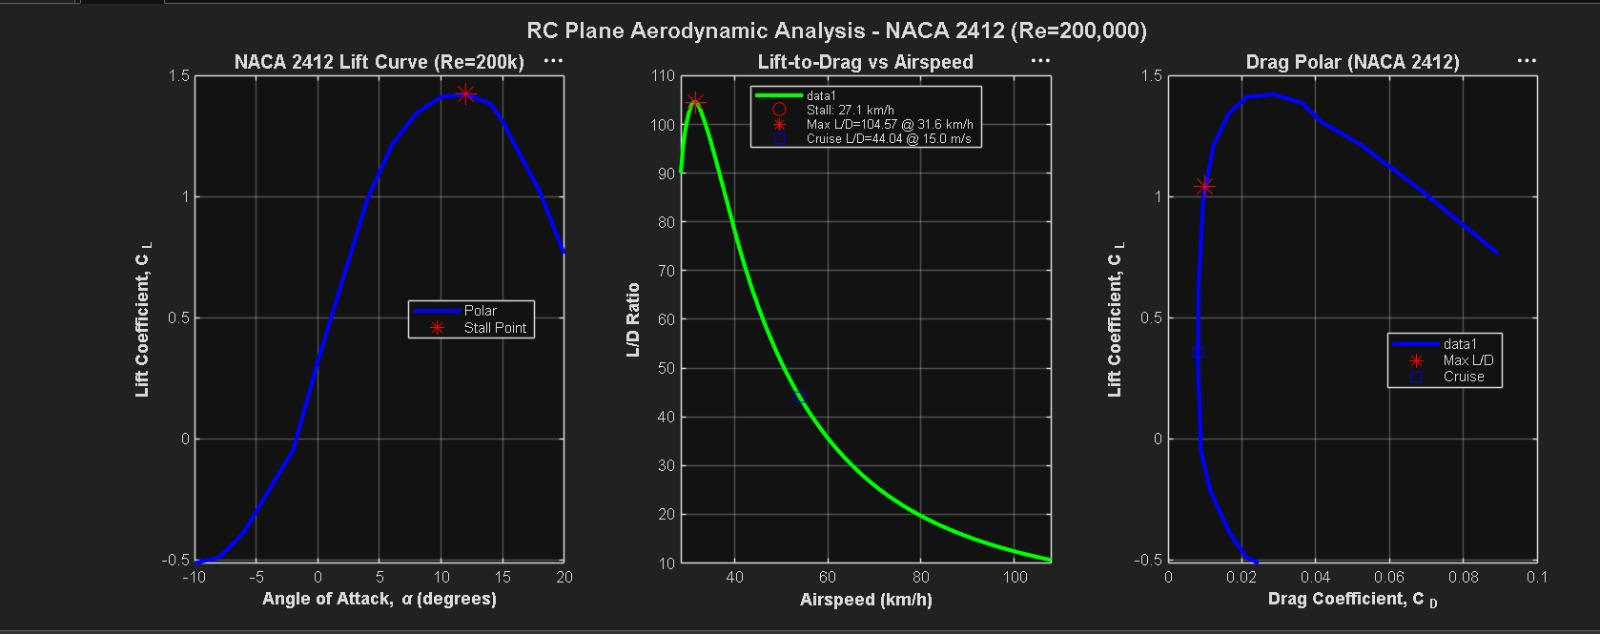
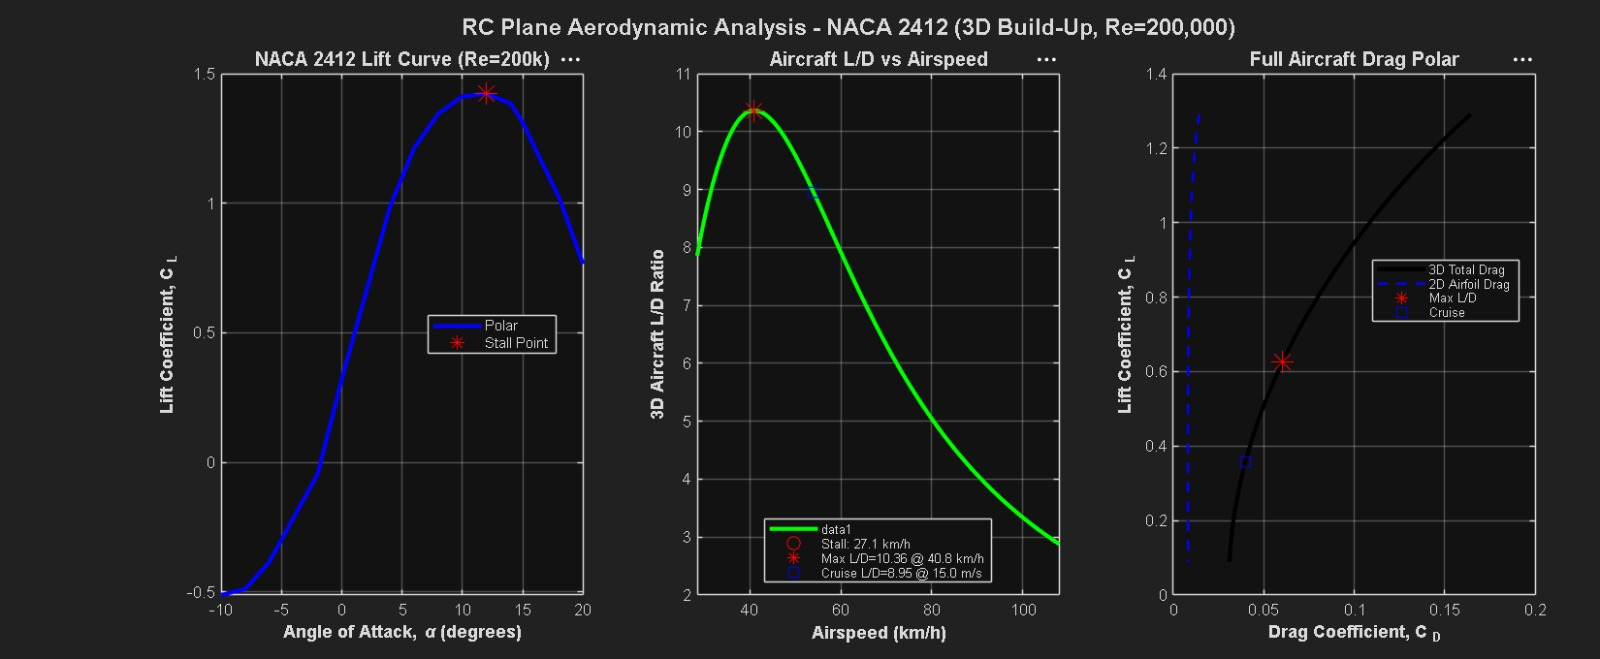
Fix aircraft L/D: add induced + parasite drag build-up

Changed region(s): [[0.0, 0.0, 1.0, 1.0]]

diff --git a/MATLAB_Analysis/performance_analysis.m b/MATLAB_Analysis/performance_analysis.m
@@ -1,12 +1,13 @@
 % RC Plane Performance Analysis with Real Airfoil Polars
-% NACA 2412 (Re=200,000) | 3G Maneuver Load | CL vs Alpha + Performance
+% NACA 2412 (Re=200,000) | 3G Maneuver Load | 3D Aircraft Drag Build-Up
 % Robust version:
+% - Computes 3D total drag (Airfoil Cd + Induced Drag + Parasite Drag)
 % - Handles non-unique CL values for inverse interpolation
 % - Uses only pre-stall branch for CL -> alpha mapping
 % - Masks infeasible points where CL_needed > CL_max
-
-
-
+ 
+clear; clc; close all;
+ 
 %% Aircraft Specs
 W = 990 * 9.81 / 1000;          % Weight in N (990 g)
 S = 0.197;                      % Wing area in m^2
@@ -15,9 +16,13 @@ AR = 5.18;                      % Aspect ratio
 rho = 1.225;                    % Air density at sea level (kg/m^3)
 g = 9.81;                       % Gravity (m/s^2)
 wing_loading = 49.31;           % N/m^2
-
+ 
+% --- 3D Aerodynamic Drag Build-Up Parameters ---
+e_oswald = 0.80;                % Oswald efficiency factor (typical for rectangular wing)
+CD0_parasite = 0.022;           % Estimated parasite drag (fuselage + tail + interference)
+ 
 %% NACA 2412 Airfoil Polars (Re = 200,000) - Embedded Data
-% Format: [alpha(deg), CL, CD]
+% Format: [alpha(deg), CL, CD_airfoil]
 polar_data = [
     -10.00  -0.5123  0.02456
     -8.00   -0.4891  0.02123
@@ -37,102 +42,114 @@ polar_data = [
     18.00    1.0234  0.06876
     20.00    0.7654  0.08934
 ];
-
-alpha = polar_data(:,1);        % Angle of attack (deg)
-CL    = polar_data(:,2);        % Lift coefficient
-CD    = polar_data(:,3);        % Drag coefficient
-
+ 
+alpha      = polar_data(:,1);    % Angle of attack (deg)
+CL         = polar_data(:,2);    % Lift coefficient
+CD_airfoil = polar_data(:,3);    % 2D Airfoil drag coefficient
+ 
 % Find stall point (max CL)
 [CL_max, idx_stall] = max(CL);
 alpha_stall = alpha(idx_stall);
-
+ 
 fprintf('\n=== AIRFOIL CHARACTERISTICS (Re=200,000) ===\n');
 fprintf('Max CL: %.4f at alpha = %.2f deg\n', CL_max, alpha_stall);
-
+ 
 %% Stall Speed Calculation (1G and 3G)
 V_stall_1G = sqrt((2 * W) / (rho * S * CL_max));
 V_stall_3G = V_stall_1G * sqrt(3);
-
+ 
 fprintf('\n=== STALL SPEED ===\n');
 fprintf('Vstall (1G): %.2f m/s (%.2f km/h)\n', V_stall_1G, V_stall_1G * 3.6);
 fprintf('Vstall (3G maneuver): %.2f m/s (%.2f km/h)\n\n', V_stall_3G, V_stall_3G * 3.6);
-
+ 
 %% Build monotonic pre-stall branch for inverse interpolation (CL -> alpha)
 alpha_pre = alpha(1:idx_stall);
 CL_pre    = CL(1:idx_stall);
-
+ 
 % Ensure unique CL sample points (required by interp1)
 [CL_pre_u, iu] = unique(CL_pre, 'stable');
 alpha_pre_u    = alpha_pre(iu);
-
+ 
 %% Speed Range for Analysis
-V_min    = 1.05 * V_stall_1G;   % start above stall for physical consistency
+V_min    = 1.05 * V_stall_1G;   % Start above stall for physical consistency
 V_max    = 30;
 V_cruise = 15;
 V_array  = linspace(V_min, V_max, 200);
-
+ 
 %% Compute CL needed for level flight at each speed
 CL_needed = (2 * W) ./ (rho * S * V_array.^2);
-
+ 
 % Valid only if required CL is within available pre-stall CL range
 CL_min_pre = min(CL_pre_u);
 valid = (CL_needed >= CL_min_pre) & (CL_needed <= CL_max);
-
+ 
 alpha_needed = nan(size(CL_needed));
-CD_interp    = nan(size(CL_needed));
-
+CD_2D_interp = nan(size(CL_needed));
+ 
 % Inverse interpolation: CL -> alpha (pre-stall branch only)
 alpha_needed(valid) = interp1(CL_pre_u, alpha_pre_u, CL_needed(valid), 'pchip');
-
-% Forward interpolation: alpha -> CD
-CD_interp(valid) = interp1(alpha, CD, alpha_needed(valid), 'pchip');
-
-% L/D
-LD_array = CL_needed ./ CD_interp;
+ 
+% Forward interpolation: alpha -> 2D Airfoil CD
+CD_2D_interp(valid) = interp1(alpha, CD_airfoil, alpha_needed(valid), 'pchip');
+ 
+% --- 3D Aircraft Drag Build-Up Calculation ---
+CD_induced = nan(size(CL_needed));
+CD_total   = nan(size(CL_needed));
+ 
+CD_induced(valid) = (CL_needed(valid).^2) ./ (pi * e_oswald * AR);
+CD_total(valid)   = CD_2D_interp(valid) + CD_induced(valid) + CD0_parasite;
+ 
+% 3D Aircraft L/D Ratio
+LD_array = CL_needed ./ CD_total;
 LD_array(~valid) = NaN;
-
+ 
 %% Find Maximum L/D (valid points only)
 [LD_max, idx_LD_max] = max(LD_array, [], 'omitnan');
-
+ 
 if isfinite(LD_max)
-    V_LD_max  = V_array(idx_LD_max);
-    CL_LD_max = CL_needed(idx_LD_max);
-    CD_LD_max = CD_interp(idx_LD_max);
-
-    fprintf('=== LIFT-TO-DRAG PERFORMANCE ===\n');
-    fprintf('Max L/D: %.2f\n', LD_max);
+    V_LD_max    = V_array(idx_LD_max);
+    CL_LD_max   = CL_needed(idx_LD_max);
+    CD_LD_max   = CD_total(idx_LD_max);
+ 
+    fprintf('=== 3D AIRCRAFT LIFT-TO-DRAG PERFORMANCE ===\n');
+    fprintf('Max Aircraft L/D: %.2f\n', LD_max);
     fprintf('Speed at max L/D: %.2f m/s (%.2f km/h)\n', V_LD_max, V_LD_max * 3.6);
     fprintf('CL at max L/D: %.4f\n', CL_LD_max);
-    fprintf('CD at max L/D: %.5f\n\n', CD_LD_max);
+    fprintf('Total CD at max L/D: %.5f\n\n', CD_LD_max);
 else
     V_LD_max  = NaN; CL_LD_max = NaN; CD_LD_max = NaN;
-    fprintf('=== LIFT-TO-DRAG PERFORMANCE ===\n');
+    fprintf('=== 3D AIRCRAFT LIFT-TO-DRAG PERFORMANCE ===\n');
     fprintf('No valid L/D points found in selected speed range.\n\n');
 end
-
+ 
 %% Cruise Performance (V = 15 m/s)
 CL_cruise = (2 * W) / (rho * S * V_cruise^2);
-
+ 
 if (CL_cruise >= CL_min_pre) && (CL_cruise <= CL_max)
-    alpha_cruise = interp1(CL_pre_u, alpha_pre_u, CL_cruise, 'pchip');
-    CD_cruise    = interp1(alpha, CD, alpha_cruise, 'pchip');
-    LD_cruise    = CL_cruise / CD_cruise;
-
+    alpha_cruise      = interp1(CL_pre_u, alpha_pre_u, CL_cruise, 'pchip');
+    CD_2D_cruise      = interp1(alpha, CD_airfoil, alpha_cruise, 'pchip');
+    CD_induced_cruise = (CL_cruise^2) / (pi * e_oswald * AR);
+    CD_total_cruise   = CD_2D_cruise + CD_induced_cruise + CD0_parasite;
+    LD_cruise         = CL_cruise / CD_total_cruise;
+ 
     fprintf('=== CRUISE PERFORMANCE (V = %.1f m/s) ===\n', V_cruise);
     fprintf('CL_cruise: %.4f\n', CL_cruise);
     fprintf('Alpha_cruise: %.2f deg\n', alpha_cruise);
-    fprintf('CD_cruise: %.5f\n', CD_cruise);
-    fprintf('L/D at cruise: %.2f\n\n', LD_cruise);
+    fprintf('CD_airfoil (2D): %.5f\n', CD_2D_cruise);
+    fprintf('CD_induced (3D): %.5f\n', CD_induced_cruise);
+    fprintf('CD_parasite: %.5f\n', CD0_parasite);
+    fprintf('CD_total: %.5f\n', CD_total_cruise);
+    fprintf('3D Aircraft L/D at cruise: %.2f\n\n', LD_cruise);
 else
-    alpha_cruise = NaN; CD_cruise = NaN; LD_cruise = NaN;
+    alpha_cruise = NaN; CD_total_cruise = NaN; LD_cruise = NaN;
     fprintf('=== CRUISE PERFORMANCE (V = %.1f m/s) ===\n', V_cruise);
     fprintf('CL_cruise: %.4f (outside pre-stall polar range)\n', CL_cruise);
     fprintf('Cruise point not physically achievable in steady level flight.\n\n');
 end
-
+ 
 %% Plotting
 figure('Position', [100 100 1400 550]);
-
+ 
 % Plot 1: CL vs Alpha
 subplot(1,3,1);
 plot(alpha, CL, 'b-', 'LineWidth', 2.5); hold on;
@@ -144,50 +161,57 @@ ylabel('Lift Coefficient, C_L', 'FontSize', 11, 'FontWeight', 'bold');
 title('NACA 2412 Lift Curve (Re=200k)', 'FontSize', 12, 'FontWeight', 'bold');
 legend('Polar', 'Stall Point', 'Location', 'best', 'FontSize', 9);
 xlim([min(alpha) max(alpha)]);
-
-% Plot 2: L/D vs Speed
+ 
+% Plot 2: 3D Aircraft L/D vs Speed
 subplot(1,3,2);
 plot(V_array * 3.6, LD_array, 'g-', 'LineWidth', 2.5); hold on;
 plot(V_stall_1G * 3.6, 0, 'ro', 'MarkerSize', 8, ...
     'DisplayName', sprintf('Stall: %.1f km/h', V_stall_1G * 3.6));
-
+ 
 if isfinite(LD_max)
     plot(V_LD_max * 3.6, LD_max, 'r*', 'MarkerSize', 14, ...
         'DisplayName', sprintf('Max L/D=%.2f @ %.1f km/h', LD_max, V_LD_max * 3.6));
 end
-
+ 
 if isfinite(LD_cruise)
     plot(V_cruise * 3.6, LD_cruise, 'bs', 'MarkerSize', 8, ...
         'DisplayName', sprintf('Cruise L/D=%.2f @ %.1f m/s', LD_cruise, V_cruise));
 end
-
+ 
 grid on;
 xlabel('Airspeed (km/h)', 'FontSize', 11, 'FontWeight', 'bold');
-ylabel('L/D Ratio', 'FontSize', 11, 'FontWeight', 'bold');
-title('Lift-to-Drag vs Airspeed', 'FontSize', 12, 'FontWeight', 'bold');
+ylabel('3D Aircraft L/D Ratio', 'FontSize', 11, 'FontWeight', 'bold');
+title('Aircraft L/D vs Airspeed', 'FontSize', 12, 'FontWeight', 'bold');
 legend('Location', 'best', 'FontSize', 8);
 xlim([V_min*3.6, V_max*3.6]);
-
-% Plot 3: Drag Polar (CD vs CL)
+ 
+% Plot 3: 3D Drag Polar (Total CD vs CL)
 subplot(1,3,3);
-plot(CD, CL, 'b-', 'LineWidth', 2.5); hold on;
-
+plot(CD_total(valid), CL_needed(valid), 'k-', 'LineWidth', 2.5, 'DisplayName', '3D Total Drag'); hold on;
+plot(CD_2D_interp(valid), CL_needed(valid), 'b--', 'LineWidth', 1.5, 'DisplayName', '2D Airfoil Drag');
+ 
 if isfinite(CD_LD_max) && isfinite(CL_LD_max)
     plot(CD_LD_max, CL_LD_max, 'r*', 'MarkerSize', 14, 'DisplayName', 'Max L/D');
 end
-if isfinite(CD_cruise) && isfinite(CL_cruise)
-    plot(CD_cruise, CL_cruise, 'bs', 'MarkerSize', 8, 'DisplayName', 'Cruise');
+if isfinite(CD_total_cruise) && isfinite(CL_cruise)
+    plot(CD_total_cruise, CL_cruise, 'bs', 'MarkerSize', 8, 'DisplayName', 'Cruise');
 end
-
+ 
 grid on;
 xlabel('Drag Coefficient, C_D', 'FontSize', 11, 'FontWeight', 'bold');
 ylabel('Lift Coefficient, C_L', 'FontSize', 11, 'FontWeight', 'bold');
-title('Drag Polar (NACA 2412)', 'FontSize', 12, 'FontWeight', 'bold');
-legend('Location', 'best', 'FontSize', 9);
-
-sgtitle('RC Plane Aerodynamic Analysis - NACA 2412 (Re=200,000)', ...
+title('Full Aircraft Drag Polar', 'FontSize', 12, 'FontWeight', 'bold');
+legend('Location', 'best', 'FontSize', 8);
+ 
+sgtitle('RC Plane Aerodynamic Analysis - NACA 2412 (3D Build-Up, Re=200,000)', ...
     'FontSize', 14, 'FontWeight', 'bold');
-
+ 
 %% Save Figure
-saveas(gcf, 'RC_Plane_Performance_Analysis.png');
-fprintf('Figure saved as: RC_Plane_Performance_Analysis.png\n');%
+drawnow;
+try
+    exportgraphics(gcf, 'RC_Plane_Performance_Analysis.png', 'Resolution', 150);
+    fprintf('Figure saved as: RC_Plane_Performance_Analysis.png\n');
+catch ME
+    warning('Could not save figure automatically: %s', ME.message);
+    fprintf('Use Figure window > Save As to export manually if this fails again.\n');
+end
